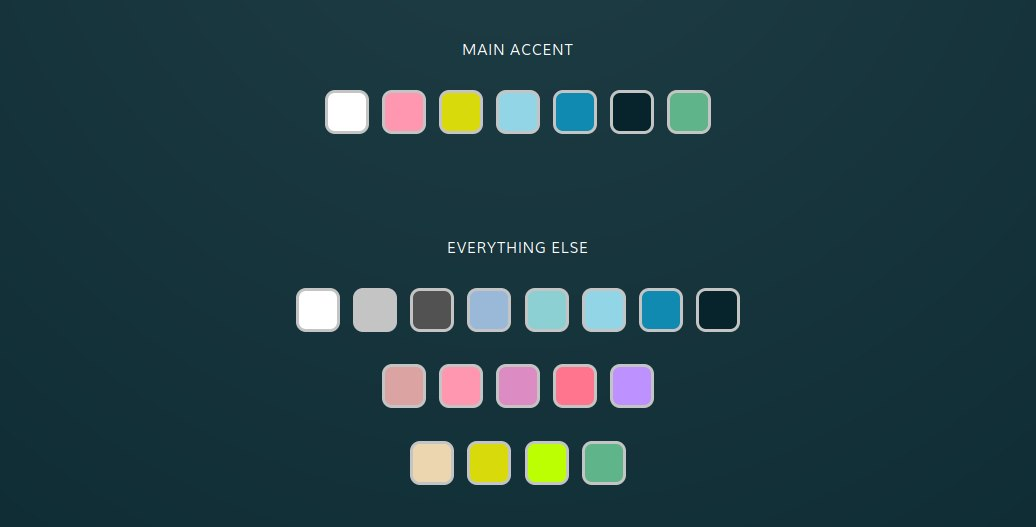
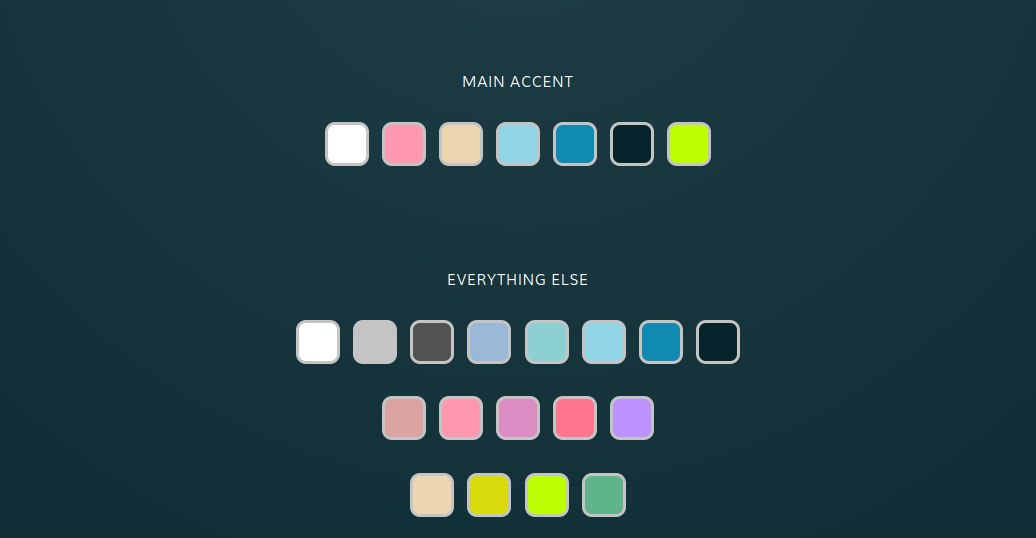
modified:   README.md 	modified:   opulo.scss 	modified:   screenshots/colors.jpg 	modified:   webapp/src/lib/modules/opulo.scss

Changed region(s): [[0.278, 0.4554, 0.7413, 0.9715], [0.3089, 0.0607, 0.7104, 0.334], [0.7104, 0.6376, 0.7413, 0.6679]]

diff --git a/opulo.scss b/opulo.scss
@@ -22,8 +22,8 @@ $color_17: #60b48a;
 // accents
 $snow: $color_01;
 $sakura: $color_10;
-$washed: $color_15;
+$washed: $color_14;
 $clouds: $color_06;
 $shark: $color_07;
 $deep: $color_08;
-$toxic: $color_17;
+$toxic: $color_16;

diff --git a/webapp/src/lib/modules/opulo.scss b/webapp/src/lib/modules/opulo.scss
@@ -22,8 +22,8 @@ $color_17: #60b48a;
 // accents
 $snow: $color_01;
 $sakura: $color_10;
-$washed: $color_15;
+$washed: $color_14;
 $clouds: $color_06;
 $shark: $color_07;
 $deep: $color_08;
-$toxic: $color_17;
+$toxic: $color_16;

diff --git a/README.md b/README.md
@@ -31,9 +31,9 @@ $color_17: #60b48a;
 // accents
 $snow: $color_01;
 $sakura: $color_10;
-$washed: $color_15;
+$washed: $color_14;
 $clouds: $color_06;
 $shark: $color_07;
 $deep: $color_08;
-$toxic: $color_17;
+$toxic: $color_16;
 ```
